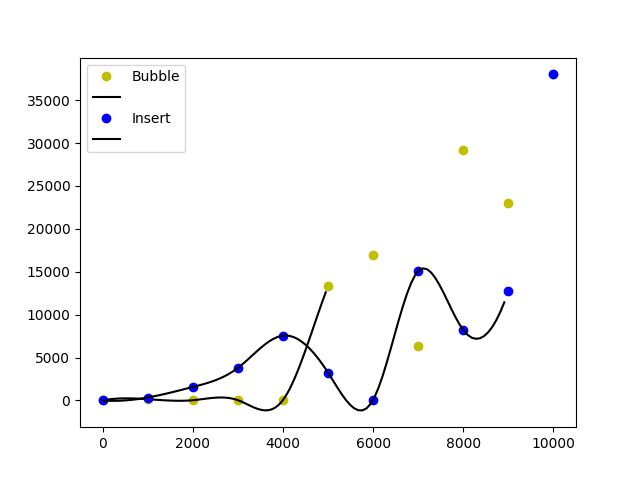
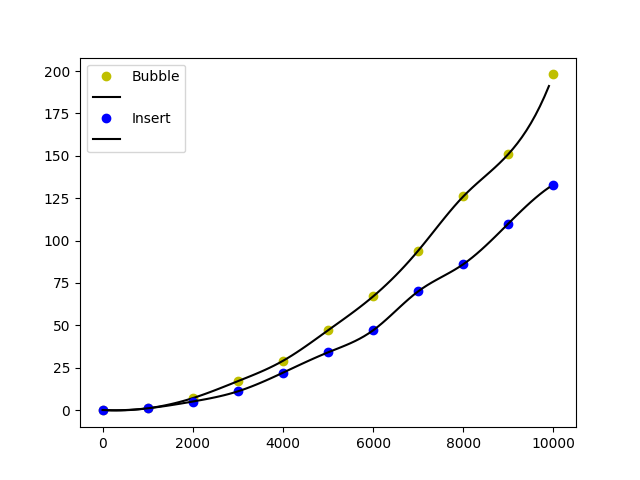
Winter23 Practic2 Страньше и страньше...

diff --git a/Winter23/pr003.Sort/source/mainTest.cpp b/Winter23/pr003.Sort/source/mainTest.cpp
@@ -4,6 +4,9 @@
 
 int main() {
     SCAN_ARR;
+    // for (int i = 0; i < size; ++i)
+        // cout << arr[i] << " ";
+    // cout << endl;
 
     TIMEPOINT(tpBegin);
 
@@ -11,7 +14,12 @@ int main() {
 
     TIMEPOINT(tpEnd);
 
+    cout << TESTNAME << " done" << endl;
     LOGRESULT;
+    cout << TESTNAME << " done" << endl;
+    // for (int i = 0; i < size; ++i)
+        // cout << arr[i] << " ";
+    // cout << endl;
 
     free(arr);
 }

diff --git a/Winter23/pr003.Sort/source/include.h b/Winter23/pr003.Sort/source/include.h
@@ -40,7 +40,7 @@ random_device randGenerator("fo");
 #define TIMEPOINT(name) prTimer name(prClock::now())
 
 #define LOGRESULT \
-    LOG(chrono::duration_cast<chrono::microseconds>(tpEnd - tpBegin).count() << " mks");
+    LOG(chrono::duration_cast<chrono::milliseconds>(tpEnd - tpBegin).count() << " ms");
 
 #define SCAN_ARR                        \
     size_t size = 0;                     \

diff --git a/Winter23/pr003.Sort/source/InsertSort.cpp b/Winter23/pr003.Sort/source/InsertSort.cpp
@@ -7,7 +7,7 @@
 void sortArr(int* arr, size_t size) {
     for (size_t i = 1; i < size; ++i) {
         for (size_t j = i - 1; j >= 0 && arr[j] > arr[j + 1]; --j) {
-            swap(arr, i, j);
+            swap(arr, j, j + 1);
         }
     }
 }

diff --git a/Winter23/pr003.Sort/source/mainAnalytic.cpp b/Winter23/pr003.Sort/source/mainAnalytic.cpp
@@ -35,7 +35,7 @@ void generateArr() {
     }
 
     for (int i = 0; i < size; ++i) {
-        arr[i] = randGenerator();
+        arr[i] = randGenerator() % 10;
     }
 
     saveArr(arr, size);
